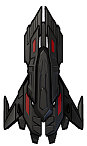
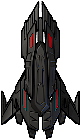
Working on scrolling background
Updating art assets with transparency

diff --git a/js/main.js b/js/main.js
@@ -1,7 +1,7 @@
 const canvas = document.createElement("canvas");
 const ctx = canvas.getContext("2d");
 const WIDTH = canvas.width = 800;
-const HEIGHT = canvas.height = 800;
+const HEIGHT = canvas.height = 1048;
 document.body.appendChild(canvas);
 canvas.style.border = "1px solid black";
 
@@ -17,12 +17,21 @@ var score = 0;
 var playerSprite = new Image();
 playerSprite.src = "img/player.png";
 
-// var bulletSprite = new Image();
-// bulletSprite.src = "img/player.png";
+var bulletSprite = new Image();
+bulletSprite.src = "img/pBullet.png";
 
 var enemySprite = new Image();
 enemySprite.src = "img/enemy1.png";
 
+var backgroundImg = new Image();
+backgroundImg.src ="img/background.png";
+var bgx = 0;
+var bgy = 0;
+
+var backgroundImg2 = new Image();
+backgroundImg2.src ="img/background.png";
+var bg2x = 0;
+var bg2y = 0 - HEIGHT;
 
 // Object to hold all the sprites but need to deal with individual x and ys so the drawing needs to be part of the Enemy/Player/Bullet function etc
 // var spriteManager = {};
@@ -37,15 +46,14 @@ var player = {
     y: 600,
     speed: 5,
     hp: 5,
-    width: 87,
-    height: 146
+    width: 80,
+    height: 140
 };
 
 //==================================================================================================
 // HANDLE THE BULLETS
 //==================================================================================================
 var bulletManager = {};
-
 
 function Bullet(x, y, speed, side, width, height, type, id) {
     var newBullet = {
@@ -66,8 +74,8 @@ function CreatePlayerBullet() {
     var y = player.y;
     var speed = 7;
     var side = "player";
-    var width = 20;
-    var height = 20;
+    var width = 11;
+    var height = 11;
     var id = Math.random();
     var type = "bullet";
 
@@ -101,8 +109,8 @@ function CreateEnemy() {
     var speedX = Math.floor(Math.random() * (Math.floor(2) - Math.ceil(-2))) + Math.ceil(-2);
     var speedY = 3;
     var side = "enemy";
-    var width = 63;
-    var height = 119;
+    var width = 60;
+    var height = 102;
     var type = "unit";
     var score = 1;
     var id = Math.random();
@@ -209,11 +217,17 @@ var gameOver = false;
 
 function StartGame() {  
     player.hp = 5;
+    player.x = 400;
+    player.y = 600;
     frameCount = 0;
     score = 0;
     enemyManager = {};
     bulletManager = {};
     gameOver = false;
+    bgx = 0;
+    bgy = 0;
+    bg2x = 0;
+    bg2y = 0 - HEIGHT;
 }
 
 function GameOver() {
@@ -249,6 +263,7 @@ function UpdateActorPosition(actor) {
 function Update() {
     if (!gameOver) {
         ctx.clearRect(0, 0, WIDTH, HEIGHT);
+        DrawBackground();
         frameCount++;
         UpdatePlayerPosition();
 
@@ -269,6 +284,7 @@ function Update() {
                     var collision = CheckCollisionBounds(bulletManager[bullet], enemyManager[enemyCheck]);
 
                     if (collision) {
+                        //can remove enemy hp here if any have more than 1 hp
                         toDelete = true;
                         score += enemyManager[enemyCheck].score;
                         delete enemyManager[enemyCheck];
@@ -321,25 +337,42 @@ function Update() {
 //==================================================================================================
 function DrawActor(actor) {
     ctx.save();
-    ctx.beginPath();
-    ctx.rect(actor.x, actor.y, actor.width, actor.height);
-    ctx.fillStyle = "#0095D";
-    ctx.fill();
 
     if (actor.side === "enemy") {
         ctx.drawImage(enemySprite, actor.x, actor.y);
     }
+
+    if(actor.side === "player" && actor.type === "bullet") {
+        ctx.drawImage(bulletSprite, actor.x, actor.y);
+    }
+
     ctx.restore();
+}
+
+function DrawBackground() {
+    ctx.drawImage(backgroundImg, 0, bgy);
+    ctx.drawImage(backgroundImg, 0, bg2y);
+    bgy++;
+    bg2y++;
+
+    if(bgy > HEIGHT){
+        bgy = 0 - HEIGHT + 2;
+    }
+
+    if (bg2y > HEIGHT) {
+        bg2y = 0 - HEIGHT + 2;
+    }
 }
 
 function DrawScore() {
     ctx.font = "16px Arial";
+    ctx.fillStyle = "#FFF";
     ctx.fillText("Score: " + score, 8, 20);
 }
 
 function DrawHP() {
     ctx.font = "16px Arial";
-    ctx.fillText("HP: " + player.hp, 8, 780);
+    ctx.fillText("HP: " + player.hp, 8, 1030);
 }
 
 function DrawGameOver() {
@@ -348,11 +381,13 @@ function DrawGameOver() {
     ctx.fillText("Press ENTER to start a new game", 180, 300);
 }
 
-function Draw() {
+function Draw() {    
     DrawActor(player);
+    if(!gameOver){
+        ctx.drawImage(playerSprite, player.x, player.y);
+    }
     DrawScore();
     DrawHP();
-    ctx.drawImage(playerSprite, player.x, player.y);
 
 
 
